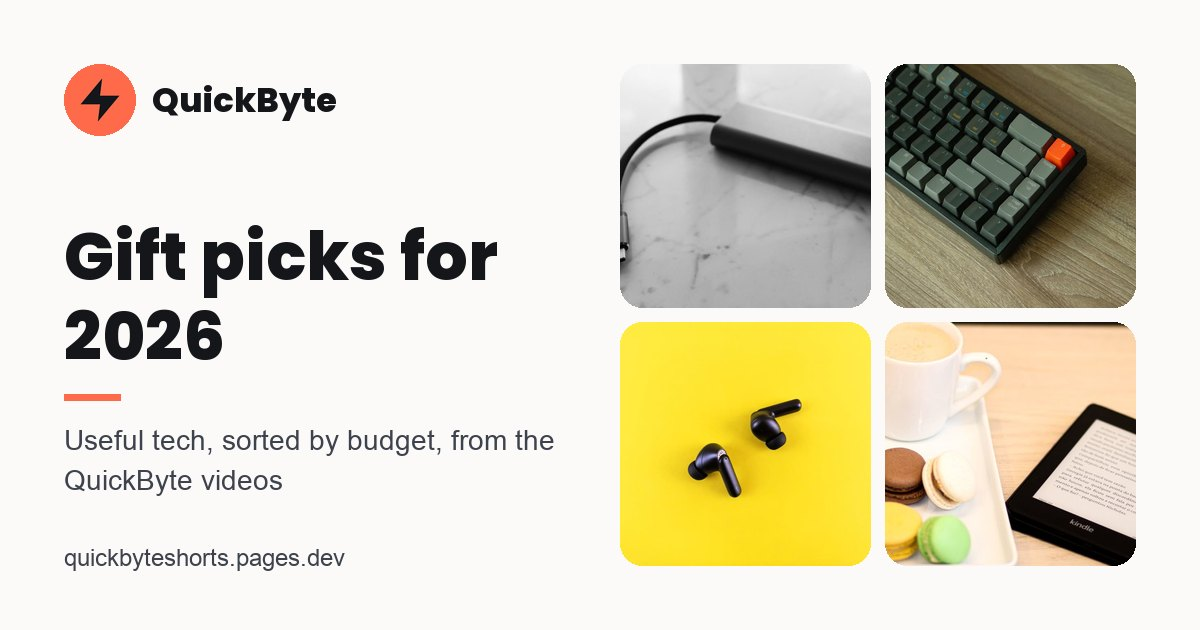
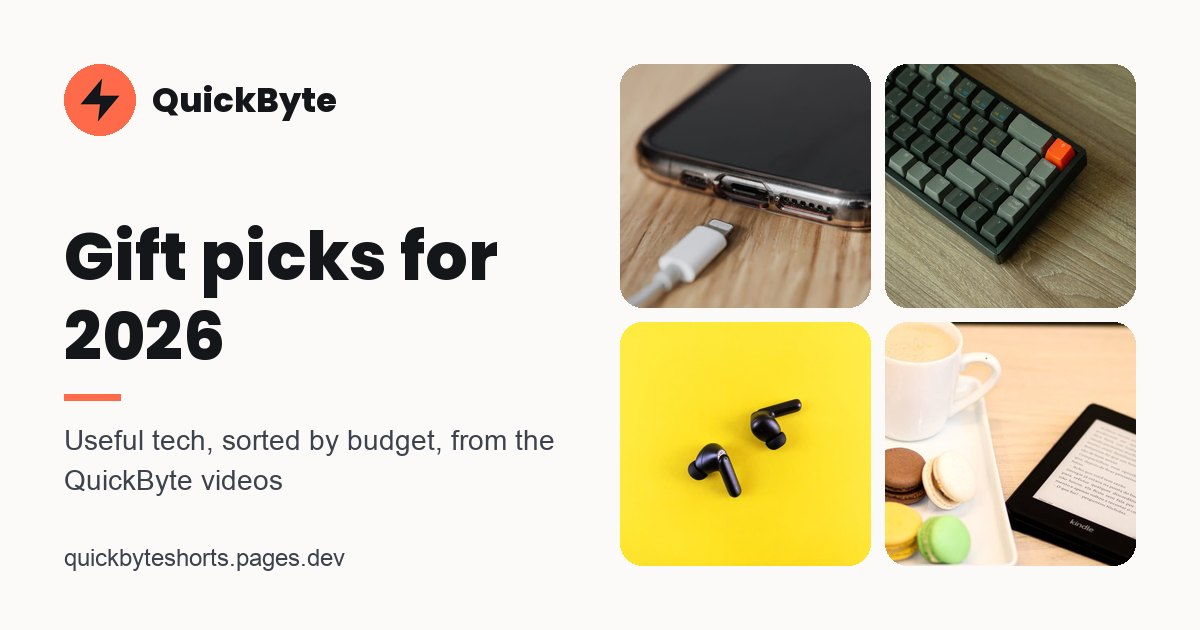
Automated cycle: update landing page

Changed region(s): [[0.4933, 0.0905, 0.74, 0.5127]]

diff --git a/docs/index.html b/docs/index.html
@@ -89,7 +89,7 @@ footer{color:var(--muted);font-size:.82rem;text-align:center;padding:24px 20px 3
 footer a{color:inherit}
 @media (max-width:520px){.season{font-size:1.45rem}.wrap{padding-top:26px}.feature .name{font-size:1.15rem}}
 </style>
-<script type="application/ld+json">{"@context": "https://schema.org", "@graph": [{"@type": "WebSite", "@id": "https://quickbyteshorts.pages.dev/#website", "name": "QuickByte", "url": "https://quickbyteshorts.pages.dev/", "description": "Short videos on which tech is worth buying, and which isn't"}, {"@type": "ItemList", "name": "Gift picks for 2026", "numberOfItems": 13, "itemListElement": [{"@type": "ListItem", "position": 1, "name": "UGREEN 240W USB-C cable (USB4)", "url": "https://quickbyteshorts.pages.dev/#pick-ugreen-usb4-cable"}, {"@type": "ListItem", "position": 2, "name": "Redragon K552 mechanical keyboard", "url": "https://quickbyteshorts.pages.dev/#pick-redragon-k552-keyboard"}, {"@type": "ListItem", "position": 3, "name": "Anker Nano power bank (10,000mAh)", "url": "https://quickbyteshorts.pages.dev/#pick-anker-nano-power-bank"}, {"@type": "ListItem", "position": 4, "name": "Anker Nano 30W USB-C charger", "url": "https://quickbyteshorts.pages.dev/#pick-anker-nano-charger"}, {"@type": "ListItem", "position": 5, "name": "Tile Mate tracker", "url": "https://quickbyteshorts.pages.dev/#pick-tile-mate"}, {"@type": "ListItem", "position": 6, "name": "MagicFiber microfiber cloths (6-pack)", "url": "https://quickbyteshorts.pages.dev/#pick-magicfiber-cloths"}, {"@type": "ListItem", "position": 7, "name": "4K streaming stick", "url": "https://quickbyteshorts.pages.dev/#pick-streaming-stick"}, {"@type": "ListItem", "position": 8, "name": "Echo Pop or Nest Mini", "url": "https://quickbyteshorts.pages.dev/#pick-smart-speaker"}, {"@type": "ListItem", "position": 9, "name": "Belkin Qi2 magnetic charger", "url": "https://quickbyteshorts.pages.dev/#pick-belkin-qi2-charger"}, {"@type": "ListItem", "position": 10, "name": "Soundcore Liberty 4 NC earbuds", "url": "https://quickbyteshorts.pages.dev/#pick-soundcore-liberty-4-nc"}, {"@type": "ListItem", "position": 11, "name": "Kindle Paperwhite", "url": "https://quickbyteshorts.pages.dev/#pick-kindle-paperwhite"}, {"@type": "ListItem", "position": 12, "name": "Wi-Fi photo frame", "url": "https://quickbyteshorts.pages.dev/#pick-wifi-photo-frame"}, {"@type": "ListItem", "position": 13, "name": "Samsung 870 EVO SSD (500GB)", "url": "https://quickbyteshorts.pages.dev/#pick-samsung-870-evo-ssd"}]}]}</script>
+<script type="application/ld+json">{"@context": "https://schema.org", "@graph": [{"@type": "WebSite", "@id": "https://quickbyteshorts.pages.dev/#website", "name": "QuickByte", "url": "https://quickbyteshorts.pages.dev/", "description": "Short videos on which tech is worth buying, and which isn't"}, {"@type": "ItemList", "name": "Gift picks for 2026", "numberOfItems": 13, "itemListElement": [{"@type": "ListItem", "position": 1, "name": "Anker Nano 30W USB-C charger", "url": "https://quickbyteshorts.pages.dev/#pick-anker-nano-charger"}, {"@type": "ListItem", "position": 2, "name": "UGREEN 240W USB-C cable (USB4)", "url": "https://quickbyteshorts.pages.dev/#pick-ugreen-usb4-cable"}, {"@type": "ListItem", "position": 3, "name": "Redragon K552 mechanical keyboard", "url": "https://quickbyteshorts.pages.dev/#pick-redragon-k552-keyboard"}, {"@type": "ListItem", "position": 4, "name": "Anker Nano power bank (10,000mAh)", "url": "https://quickbyteshorts.pages.dev/#pick-anker-nano-power-bank"}, {"@type": "ListItem", "position": 5, "name": "Tile Mate tracker", "url": "https://quickbyteshorts.pages.dev/#pick-tile-mate"}, {"@type": "ListItem", "position": 6, "name": "MagicFiber microfiber cloths (6-pack)", "url": "https://quickbyteshorts.pages.dev/#pick-magicfiber-cloths"}, {"@type": "ListItem", "position": 7, "name": "4K streaming stick", "url": "https://quickbyteshorts.pages.dev/#pick-streaming-stick"}, {"@type": "ListItem", "position": 8, "name": "Echo Pop or Nest Mini", "url": "https://quickbyteshorts.pages.dev/#pick-smart-speaker"}, {"@type": "ListItem", "position": 9, "name": "Belkin Qi2 magnetic charger", "url": "https://quickbyteshorts.pages.dev/#pick-belkin-qi2-charger"}, {"@type": "ListItem", "position": 10, "name": "Soundcore Liberty 4 NC earbuds", "url": "https://quickbyteshorts.pages.dev/#pick-soundcore-liberty-4-nc"}, {"@type": "ListItem", "position": 11, "name": "Kindle Paperwhite", "url": "https://quickbyteshorts.pages.dev/#pick-kindle-paperwhite"}, {"@type": "ListItem", "position": 12, "name": "Wi-Fi photo frame", "url": "https://quickbyteshorts.pages.dev/#pick-wifi-photo-frame"}, {"@type": "ListItem", "position": 13, "name": "Samsung 870 EVO SSD (500GB)", "url": "https://quickbyteshorts.pages.dev/#pick-samsung-870-evo-ssd"}]}]}</script>
 </head>
 <body>
 <div class="wrap">
@@ -98,22 +98,22 @@ footer a{color:inherit}
 <nav class="socials" aria-label="QuickByte on social media"><a href="https://www.youtube.com/@quickbytetips" target="_blank" rel="noopener me">YouTube</a><a href="https://www.tiktok.com/@quickbytetips" target="_blank" rel="noopener me">TikTok</a><a href="https://www.instagram.com/quickbytetips" target="_blank" rel="noopener me">Instagram</a></nav>
 <p class="disc">The Amazon links on this page are affiliate links. As an Amazon Associate I earn from qualifying purchases.</p>
 <main>
-<section class="latest" aria-labelledby="latest-h"><h2 id="latest-h">From recent videos</h2><div class="grid wide"><article class="pick compact"><div class="ph"><picture><source type="image/webp" srcset="img/240w-usb-c-cable-with-e-marker-usb4-40gbps-480.webp 480w, img/240w-usb-c-cable-with-e-marker-usb4-40gbps-800.webp 800w" sizes="160px"><img src="img/240w-usb-c-cable-with-e-marker-usb4-40gbps.jpg" alt="" width="800" height="600" fetchpriority="high" decoding="async"></picture></div><div class="body">
+<section class="latest" aria-labelledby="latest-h"><h2 id="latest-h">From today's video</h2><article class="feature"><div class="ph"><picture><source type="image/webp" srcset="img/30w-usb-c-pd-gan-charger-480.webp 480w, img/30w-usb-c-pd-gan-charger-800.webp 800w" sizes="(max-width:700px) calc(100vw - 40px), 500px"><img src="img/30w-usb-c-pd-gan-charger.jpg" alt="" width="800" height="600" fetchpriority="high" decoding="async"></picture></div><div class="body">
+<h3 class="name">Anker Nano 30W USB-C charger</h3>
+<p class="seen">From the video: Three tech gifts under $30 people actually use</p><p class="note">Most phones don&#x27;t come with a charger anymore, and this one is pocket-sized but fast enough for a phone or an iPad.</p>
+<div class="row"><a class="buy" href="https://www.amazon.com/dp/B0B2MM1W65?tag=quickbyte0f-20" target="_blank" rel="sponsored nofollow noopener">See it on Amazon</a><span class="paid">Paid link</span></div>
+</div></article><h2>Also from recent videos</h2><div class="grid wide"><article class="pick compact"><div class="ph"><picture><source type="image/webp" srcset="img/240w-usb-c-cable-with-e-marker-usb4-40gbps-480.webp 480w, img/240w-usb-c-cable-with-e-marker-usb4-40gbps-800.webp 800w" sizes="160px"><img src="img/240w-usb-c-cable-with-e-marker-usb4-40gbps.jpg" alt="" width="800" height="600" loading="lazy" decoding="async"></picture></div><div class="body">
 <h3 class="name">UGREEN 240W USB-C cable (USB4)</h3>
 <p class="seen">From: Why two identical USB-C cables can charge at totally different speeds</p><p class="note">One cable that handles full-speed data, 4K video and laptop charging, so nobody has to guess which cable is which.</p>
 <div class="row"><a class="buy" href="https://www.amazon.com/dp/B0HHF28F1R?tag=quickbyte0f-20" target="_blank" rel="sponsored nofollow noopener">See it on Amazon</a><span class="paid">Paid link</span><a class="watch" href="https://www.youtube.com/shorts/p5rjeAwEhS0" target="_blank" rel="noopener">Watch the video</a></div>
-</div></article><article class="pick compact"><div class="ph"><picture><source type="image/webp" srcset="img/budget-mechanical-keyboard-480.webp 480w, img/budget-mechanical-keyboard-800.webp 800w" sizes="160px"><img src="img/budget-mechanical-keyboard.jpg" alt="" width="800" height="600" loading="lazy" decoding="async"></picture></div><div class="body">
-<h3 class="name">Redragon K552 mechanical keyboard</h3>
-<p class="seen">From: You don&#x27;t need a $150 keyboard to stop hating how you type</p><p class="note">A compact, sturdy mechanical board for a fraction of the big-name price. Great first keyboard for a teen or a new desk setup.</p>
-<div class="row"><a class="buy" href="https://www.amazon.com/dp/B016MAK38U?tag=quickbyte0f-20" target="_blank" rel="sponsored nofollow noopener">See it on Amazon</a><span class="paid">Paid link</span><a class="watch" href="https://www.youtube.com/shorts/F7UZa16uvv4" target="_blank" rel="noopener">Watch the video</a></div>
-</div></article></div></section><h1 class="season" id="gifts">Gift picks for 2026</h1><p class="season-sub">Each pick comes from a QuickByte video (a few of those videos are still on the way). Useful things, sensibly priced, that we'd tell a friend to buy. Sorted by budget.</p><nav class="jump" aria-label="Budgets"><a href="#under-25">Under $25</a><a href="#under-50">Under $50</a><a href="#under-100">Under $100</a><a href="#worth-the-splurge">Worth the splurge</a></nav><h2 id="under-25">Under $25</h2><div class="grid"><article class="pick" id="pick-ugreen-usb4-cable"><div class="ph"><picture><source type="image/webp" srcset="img/240w-usb-c-cable-with-e-marker-usb4-40gbps-480.webp 480w, img/240w-usb-c-cable-with-e-marker-usb4-40gbps-800.webp 800w" sizes="(max-width:640px) calc(100vw - 40px), 320px"><img src="img/240w-usb-c-cable-with-e-marker-usb4-40gbps.jpg" alt="" width="800" height="600" loading="lazy" decoding="async"></picture></div><div class="body">
-<h3 class="name">UGREEN 240W USB-C cable (USB4)</h3>
-<p class="note">One cable that handles full-speed data, 4K video and laptop charging, so nobody has to guess which cable is which.</p>
-<div class="row"><a class="buy" href="https://www.amazon.com/dp/B0HHF28F1R?tag=quickbyte0f-20" target="_blank" rel="sponsored nofollow noopener">See it on Amazon</a><span class="paid">Paid link</span><a class="watch" href="https://www.youtube.com/shorts/p5rjeAwEhS0" target="_blank" rel="noopener">Watch the video</a></div>
-</div></article><article class="pick" id="pick-anker-nano-charger"><div class="ph"><picture><source type="image/webp" srcset="img/30w-usb-c-pd-gan-charger-480.webp 480w, img/30w-usb-c-pd-gan-charger-800.webp 800w" sizes="(max-width:640px) calc(100vw - 40px), 320px"><img src="img/30w-usb-c-pd-gan-charger.jpg" alt="" width="800" height="600" loading="lazy" decoding="async"></picture></div><div class="body">
+</div></article></div></section><h1 class="season" id="gifts">Gift picks for 2026</h1><p class="season-sub">Each pick comes from a QuickByte video (a few of those videos are still on the way). Useful things, sensibly priced, that we'd tell a friend to buy. Sorted by budget.</p><nav class="jump" aria-label="Budgets"><a href="#under-25">Under $25</a><a href="#under-50">Under $50</a><a href="#under-100">Under $100</a><a href="#worth-the-splurge">Worth the splurge</a></nav><h2 id="under-25">Under $25</h2><div class="grid"><article class="pick" id="pick-anker-nano-charger"><div class="ph"><picture><source type="image/webp" srcset="img/30w-usb-c-pd-gan-charger-480.webp 480w, img/30w-usb-c-pd-gan-charger-800.webp 800w" sizes="(max-width:640px) calc(100vw - 40px), 320px"><img src="img/30w-usb-c-pd-gan-charger.jpg" alt="" width="800" height="600" loading="lazy" decoding="async"></picture></div><div class="body">
 <h3 class="name">Anker Nano 30W USB-C charger</h3>
 <p class="note">Most phones don&#x27;t come with a charger anymore, and this one is pocket-sized but fast enough for a phone or an iPad.</p>
 <div class="row"><a class="buy" href="https://www.amazon.com/dp/B0B2MM1W65?tag=quickbyte0f-20" target="_blank" rel="sponsored nofollow noopener">See it on Amazon</a><span class="paid">Paid link</span></div>
+</div></article><article class="pick" id="pick-ugreen-usb4-cable"><div class="ph"><picture><source type="image/webp" srcset="img/240w-usb-c-cable-with-e-marker-usb4-40gbps-480.webp 480w, img/240w-usb-c-cable-with-e-marker-usb4-40gbps-800.webp 800w" sizes="(max-width:640px) calc(100vw - 40px), 320px"><img src="img/240w-usb-c-cable-with-e-marker-usb4-40gbps.jpg" alt="" width="800" height="600" loading="lazy" decoding="async"></picture></div><div class="body">
+<h3 class="name">UGREEN 240W USB-C cable (USB4)</h3>
+<p class="note">One cable that handles full-speed data, 4K video and laptop charging, so nobody has to guess which cable is which.</p>
+<div class="row"><a class="buy" href="https://www.amazon.com/dp/B0HHF28F1R?tag=quickbyte0f-20" target="_blank" rel="sponsored nofollow noopener">See it on Amazon</a><span class="paid">Paid link</span><a class="watch" href="https://www.youtube.com/shorts/p5rjeAwEhS0" target="_blank" rel="noopener">Watch the video</a></div>
 </div></article><article class="pick" id="pick-tile-mate"><div class="ph"><picture><source type="image/webp" srcset="img/tile-mate-bluetooth-tracker-480.webp 480w, img/tile-mate-bluetooth-tracker-800.webp 800w" sizes="(max-width:640px) calc(100vw - 40px), 320px"><img src="img/tile-mate-bluetooth-tracker.jpg" alt="" width="800" height="600" loading="lazy" decoding="async"></picture></div><div class="body">
 <h3 class="name">Tile Mate tracker</h3>
 <p class="note">Works with iPhone and Android, so it&#x27;s the safe tracker gift when you don&#x27;t know what phone they have.</p>
